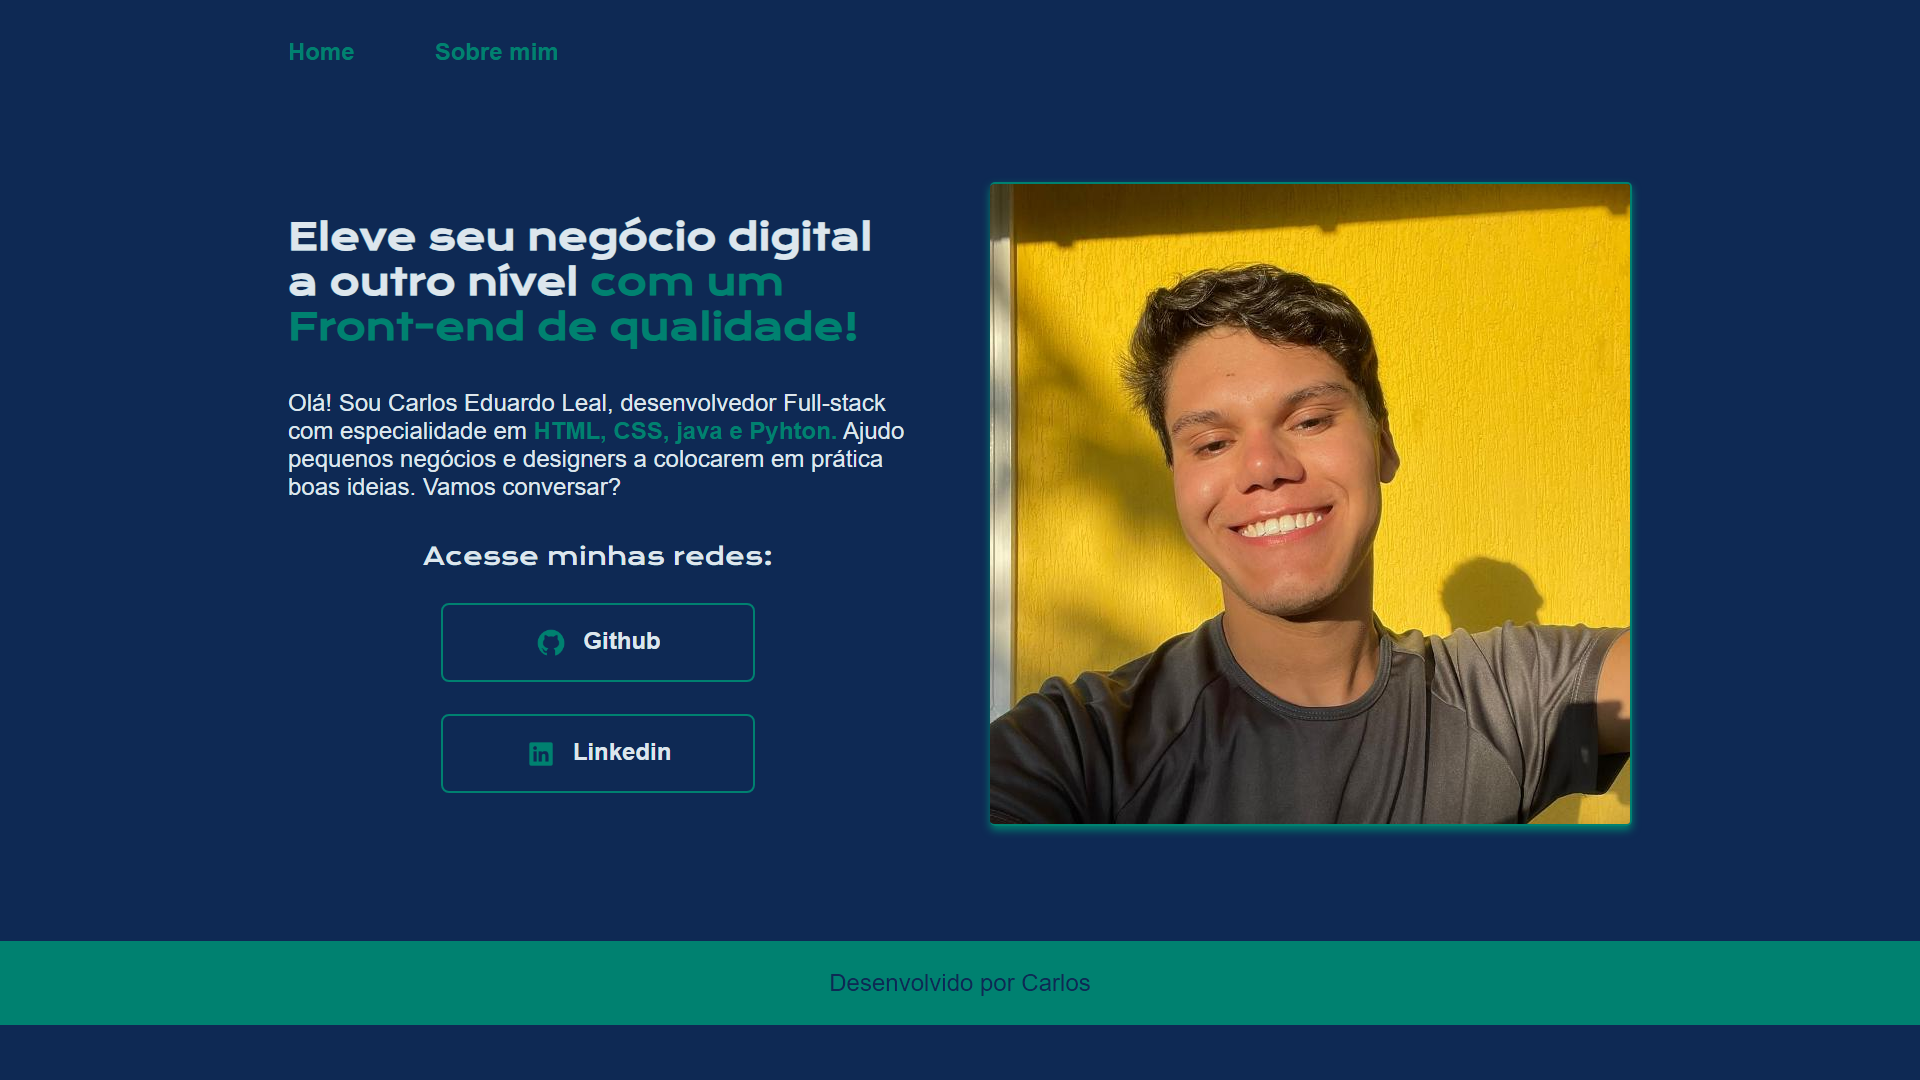
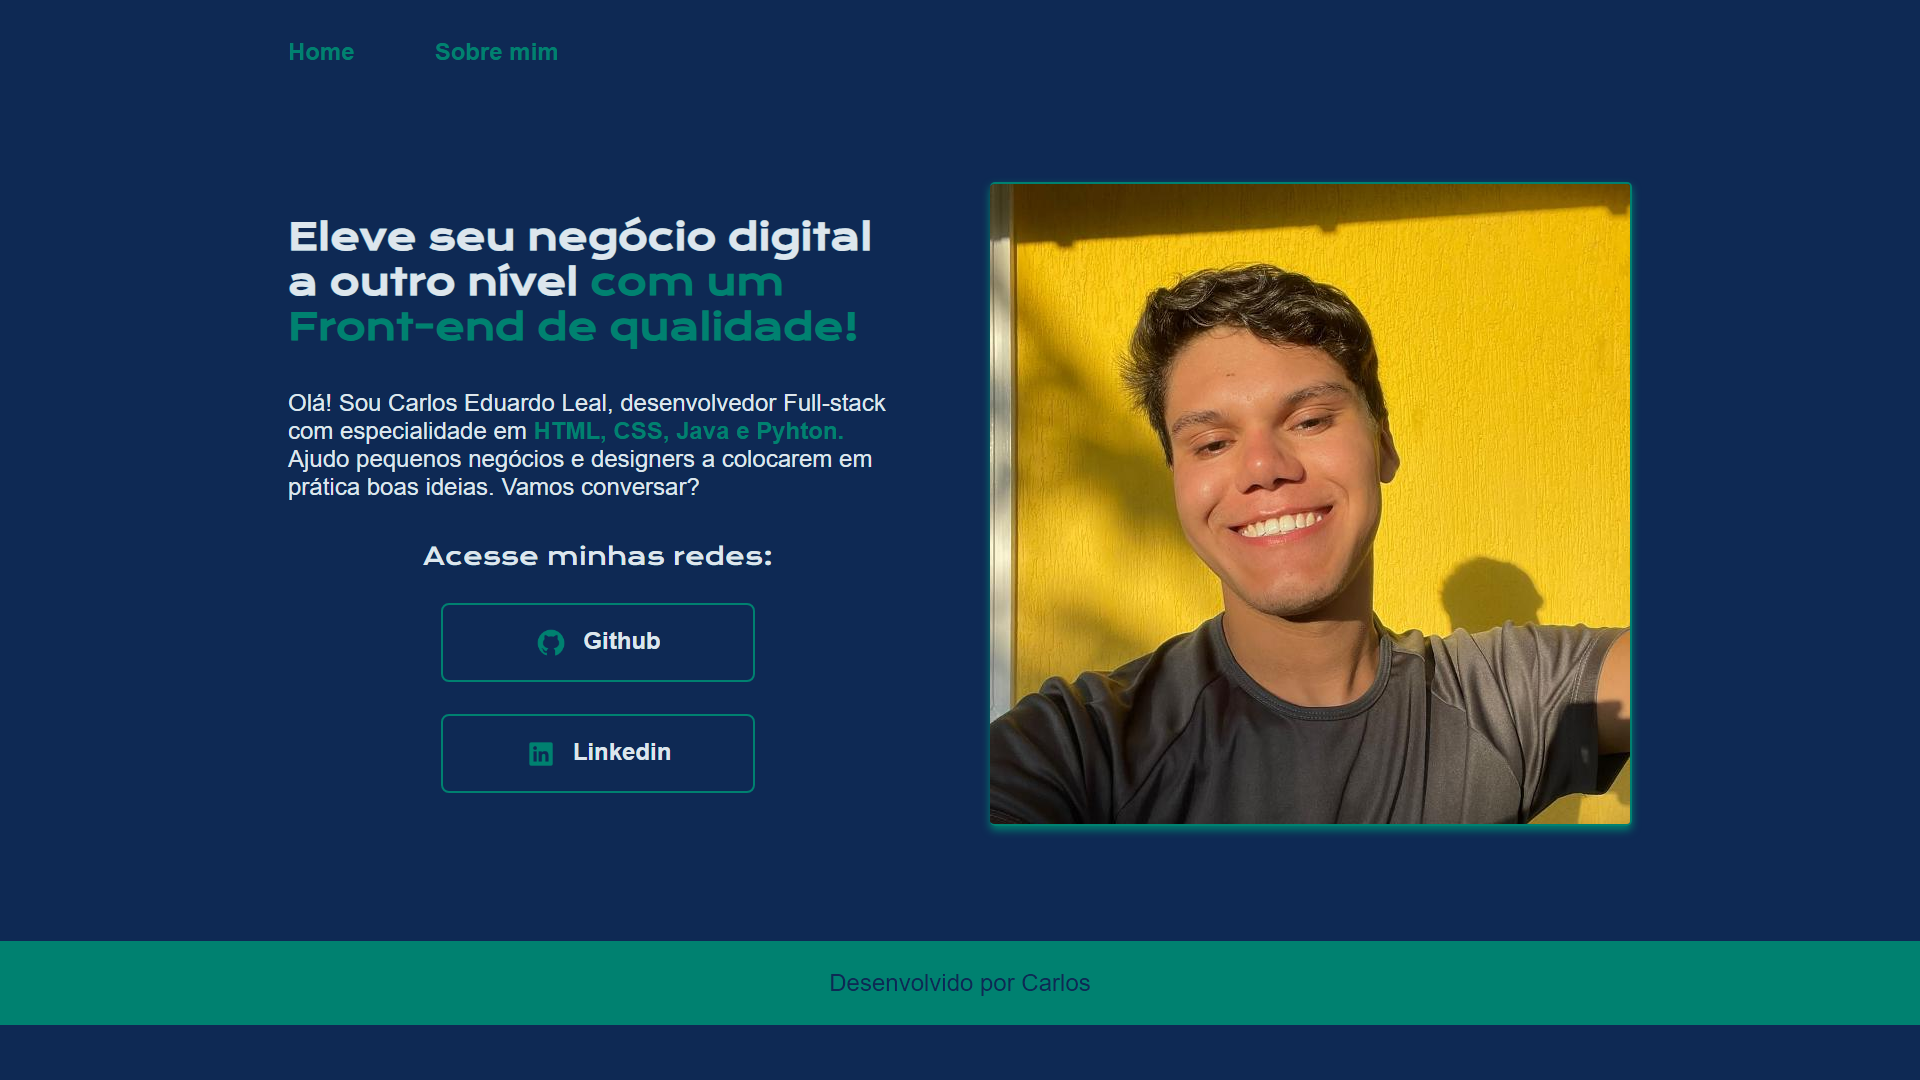
Update html

Changed region(s): [[0.1562, 0.3972, 0.4688, 0.4583]]

diff --git a/index.html b/index.html
@@ -21,7 +21,7 @@
                 </strong></h1>
                 <p class="apresentacao__conteudo__texto">Olá! Sou Carlos Eduardo Leal, desenvolvedor
                 Full-stack com especialidade em <strong class="paragrafo-destaque">HTML,
-                CSS, java e Pyhton.</strong> Ajudo pequenos negócios e designers a 
+                CSS, Java e Pyhton.</strong> Ajudo pequenos negócios e designers a 
                 colocarem em prática boas ideias. Vamos 
                 conversar?</p>
                 <div class="apresentação__links">
